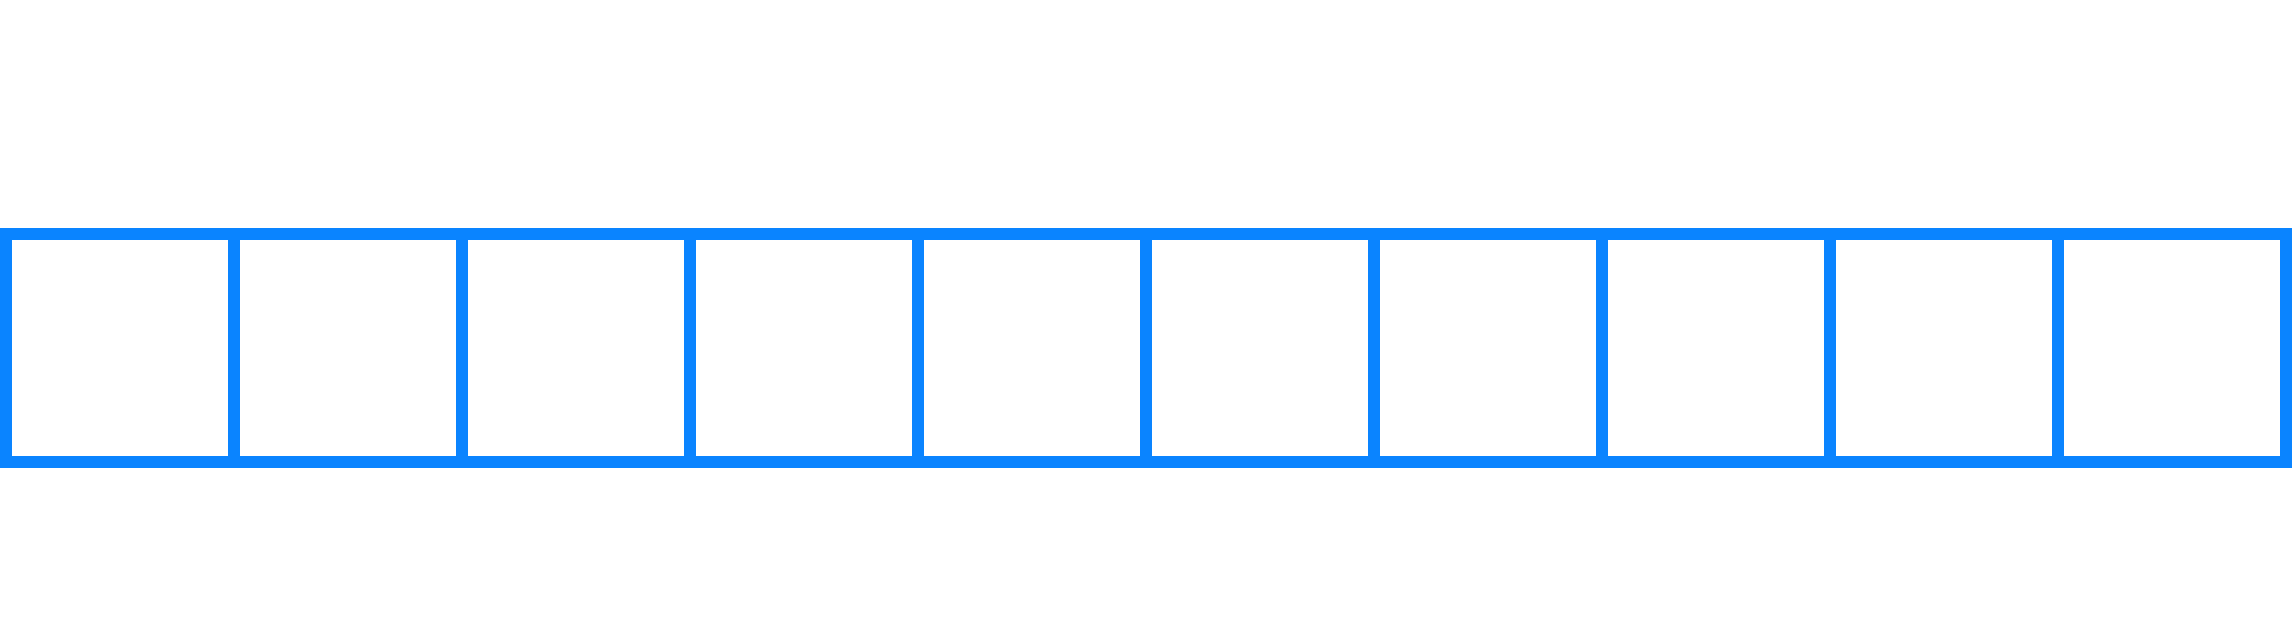
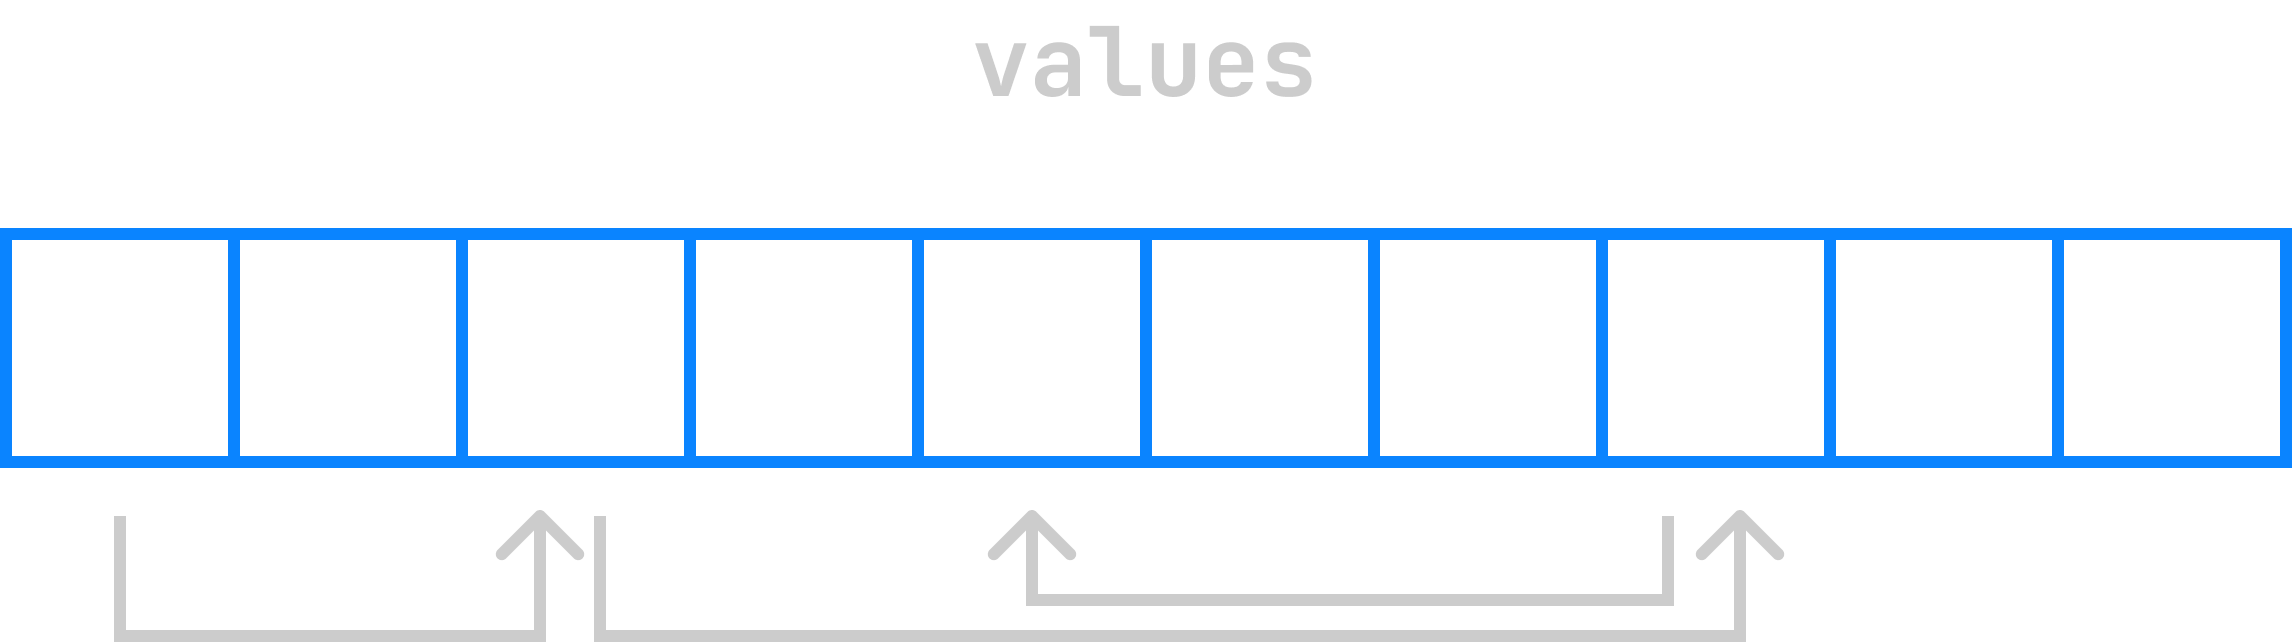
update blog posts

Changed region(s): [[0.031, 0.7788, 0.7744, 1.0], [0.4027, 0.0312, 0.5886, 0.1558]]

diff --git a/crates/www/content/blog/writing_the_fastest_gbdt_library_in_rust/post.md b/crates/www/content/blog/writing_the_fastest_gbdt_library_in_rust/post.md
@@ -1,13 +1,13 @@
 {
-"title": "Writing the fastest GBDT Library in Rust",
-"date": "December 8, 2021",
+"title": "Writing the fastest GBDT library in Rust",
+"date": "December 14, 2021",
 "author": {
 "name": "Isabella Tromba",
 "gravatar": "https://gravatar.com/avatar/b5c16153bae7a6fa6663d7f555906dd0?s=100"
 }
 }
 
-In this post, we will go over how we optimized our Gradient Boosted Decision Tree library. This is based on a talk that we gave at RustConf 2021: [Writing the Fastest Gradient Boosted Decision Tree Library in Rust](https://www.youtube.com/watch?v=D1NAREuicNs). The library that this post is based on is called [Tangram Tree](https://github.com/tangramdotdev/tangram/tree/main/crates/tree) and is available on GitHub. We tried to do a good job of commenting the code. Let us know if anything is unclear.
+In this post, we will go over how we optimized our Gradient Boosted Decision Tree library. This is based on a talk that we gave at RustConf 2021: [Writing the Fastest Gradient Boosted Decision Tree Library in Rust](https://www.youtube.com/watch?v=D1NAREuicNs). The code is available on [GitHub](https://github.com/tangramdotdev/tangram/tree/main/crates/tree).
 
 <div style="position: relative; padding-bottom: 56.25%; ">
   <iframe
@@ -20,7 +20,7 @@ In this post, we will go over how we optimized our Gradient Boosted Decision Tre
   </iframe>
 </div>
 
-The content of this post is organized into sections, feel free to skip to the ones you want to read:
+The content of this post is organized into following sections:
 
 1. [What are GBDTs](#what_are_gbdts?).
 2. [Use Rayon to Parallelize](#use_rayon_to_parallelize).
@@ -32,7 +32,7 @@ The content of this post is organized into sections, feel free to skip to the on
 
 ## What are GBDTs?
 
-GBDT stands for Gradient Boosted Decision Tree. GBDTs are a type of machine learning model that perform incredibly well on tabular data. Tabular data is data that you would normally find in a spreadsheet/csv. You can think of tabular data as ints, floats, booleans, enums, and short text.
+GBDT stands for Gradient Boosted Decision Tree. GBDTs are a type of machine learning model that perform incredibly well on tabular data. Tabular data is data that you would normally find in a spreadsheet or csv.
 
 In order to get a feeling for how GBDT's work, let's go through an example of making a prediction with a single decision tree. Let’s say you want to predict the price of a house based on features like the number of bedrooms, bathrooms, and square footage. Here is a table with 3 features `num_bedrooms`, `num_bathrooms` and `sqft`. The final column called `price` is what we are trying to predict.
 
@@ -65,9 +65,9 @@ Starting at the top, the number of bedrooms is 3 which is less than or equal to 
   width="50%"
 />
 
-A single decision tree isn’t very good at making predictions on its own, so we train a bunch of trees, one at a time, where each tree predicts the error in the sum of the outputs of the trees before it. This is called gradient boosting over decision trees! In this example, the prediction is $340K.
+A single decision tree isn’t very good at making predictions on its own, so we train a bunch of trees, one at a time, where each tree predicts the error in the sum of the outputs of the trees before it. This is called gradient boosting over decision trees!
 
-Making a prediction with gradient boosted decision trees is easy. We start with a baseline prediction which in the case of regression (predicting a continuous value like the price of a home) is just the average price of houses in our dataset. Then, we run the process we described for getting a prediction out of a single decision tree for each tree and sum up the outputs.
+Making a prediction with gradient boosted decision trees is easy. We start with a baseline prediction which in the case of regression (predicting a continuous value like the price of a home) is just the average price of houses in our dataset. Then, we run the process we described for getting a prediction out of a single decision tree for each tree and sum up the outputs. In this example, the prediction is $340K.
 
 <img
   src="gbdt.png"
@@ -79,7 +79,7 @@ To learn more about GBDT's check out the [wikipedia article on gradient boosting
 
 ## Use Rayon to Parallelize
 
-So now that we know a little about GBDT's let's talk about how we made our code fast. The first thing we did was parallelize our code. [Rayon](https://github.com/rayon-rs/rayon) makes this really easy. Rayon is a data parallelism library for Rust that makes converting sequential operations into parallel ones extremely easy.
+So now that we know a little about GBDT's, let's talk about how we made our code fast. The first thing we did was parallelize our code. [Rayon](https://github.com/rayon-rs/rayon) makes this really easy. Rayon is a data parallelism library for Rust that makes converting sequential operations into parallel ones extremely easy.
 
 <img
   src="features_matrix.png"
@@ -103,7 +103,7 @@ dataset.columns().iter().map(|column| {
 })
 ```
 
-We can parallelize this code with Rayon. All we have to do is change the call to `iter` to `par_iter`. 
+We can parallelize this code with Rayon. All we have to do is change the call to `iter` to `par_iter`.
 
 ```rust
 dataset.columns().par_iter().map(|column| {
@@ -111,7 +111,7 @@ dataset.columns().par_iter().map(|column| {
 })
 ```
 
-Rayon will keep a thread pool around and schedule items from your iterator to be processed in parallel. Parallelizing over the features works well when the number of features is larger than the number of cores on your computer. When the number of features is smaller than the number of logical cores in your computer, parallelizing over the features is not as efficient. This is because some of our cores will be sitting idle so we will not be using all of the compute power available to us. You can see this clearly in the image below. Cores 1 through 4 have work to do because they have features 1 through 4 assigned to them. Cores 5 through 8 though are sitting idle. 
+Rayon will keep a thread pool around and schedule items from your iterator to be processed in parallel. Parallelizing over the features works well when the number of features is larger than the number of cores on your computer. When the number of features is smaller than the number of logical cores in your computer, parallelizing over the features is not as efficient. This is because some of our cores will be sitting idle so we will not be using all of the compute power available to us. You can see this clearly in the image below. Cores 1 through 4 have work to do because they have features 1 through 4 assigned to them. Cores 5 through 8 though are sitting idle.
 
 <img
   src="cores_column_wise.png"
@@ -135,7 +135,7 @@ Each core now has some rows assigned to it, and no core is sitting idle.
   width="50%"
 />
 
-Distributing the work across rows is super easy with Rayon as well. We just use the combinator `par_chunks`! 
+Distributing the work across rows is super easy with Rayon as well. We just use the combinator `par_chunks`!
 
 ```rust
 dataset.rows().par_chunks(N).map(|chunk| {
@@ -146,7 +146,7 @@ These are just a couple of the combinators available in Rayon. There are a lot o
 
 ## Use cargo-flamegraph to find bottlenecks
 
-Next, we used [cargo-flamegraph](https://github.com/flamegraph-rs/flamegraph) to find where most of the time was being spent.
+Next, we used [cargo-flamegraph](https://github.com/flamegraph-rs/flamegraph) to find where most of the time was being spent. `Cargo-flamegraph` makes it easy generate flamegraphs and integrates elegantly with cargo. You can install it with `cargo install`, then run `cargo flamegraph` to run your program and generate a flamegraph.
 
 ```
 sudo apt install -y linux-perf
@@ -154,7 +154,7 @@ cargo install flamegraph
 cargo flamegraph
 ```
 
-`Cargo-flamegraph` makes it easy generate flamegraphs and integrates elegantly with cargo. You can install it with `cargo install`, then run `cargo flamegraph` to run your program and generate a flamegraph.
+Here is a simple example with a program that calls two subroutines, `foo` and `bar`.
 
 ```rust
 fn main() {
@@ -163,7 +163,7 @@ fn main() {
 }
 ```
 
-Here is a simple example with a program that calls two subroutines, `foo` and `bar`. When we run `cargo flamegraph` we get an output that looks like this. 
+When we run `cargo flamegraph` we get an output that looks like this.
 
 <img
   src="flamegraph.png"
@@ -179,11 +179,9 @@ It contains a lot of extra functions that you have to sort through, but it boils
   width="50%"
 />
 
-The y-axis of the graph is the call stack, and the x axis is duration. The bottom of the graph shows that the entire duration of the program was spent in the main function. Above that, you see that the main function’s time is broken up between calls to `foo` and `bar`, and that about two thirds of the time was spent in `foo` and its subroutines, vs about one third of the time spent in bar and its subroutines.
+The y-axis of the graph is the call stack, and the x axis is duration. The bottom of the graph shows that the entire duration of the program was spent in the main function. Above that, you see that the main function’s time is broken up between calls to `foo` and `bar`, and that about two thirds of the time was spent in `foo` and its subroutines and about one third of the time spent in bar and its subroutines.
 
-In our code for training decision trees, the flamegraph showed one function where the majority of the time was spent. It boiled down to something like this: 
-
-We maintain an array of the numbers `0` to `n` that we call `indexes`, and at each iteration of training we rearrange it. Then, we access an array of the same length, called `values`, but in the order of the indexes in the `indexes` array.
+In our code for training decision trees, the flamegraph showed one function where the majority of the time was spent. In this function, we maintain an array of the numbers `0` to `n` that we call `indexes`, and at each iteration of training we rearrange it. Then, we access an array of the same length, called `values`, but in the order of the indexes in the `indexes` array.
 
 ```rust
 let indexes = (0..n).collect();
@@ -196,11 +194,11 @@ for index in indexes {
 }
 ```
 
-This results in accessing each item in the `values` array out of order.
+This results in accessing each item in the `values` array out of order. We will refer back to this function throughout the rest of this post.
 
 ## Use cargo-asm to identify suboptimal code generation
 
-From the flamegraph, we knew which function was taking the majority of the time, so we looked at the assembly code it generated to see if there were any opportunities to make it faster. We did this with [cargo-asm](https://github.com/gnzlbg/cargo-asm).
+From the flamegraph, we knew which function was taking the majority of the time, which we briefly described above. We started by looking at the assembly code it generated to see if there were any opportunities to make it faster. We did this with [cargo-asm](https://github.com/gnzlbg/cargo-asm).
 
 ```bash
 cargo install cargo-asm
@@ -241,13 +239,13 @@ for index in indexes {
 }
 ```
 
-When we looked at the assembly for this loop...
+When we looked at the assembly for this loop, we were surprised to find an [`imul`](https://www.felixcloutier.com/x86/imul) instruction, which is an integer multiplication.
 
 ```
 imul     rax, qword, ptr, [r8, +, 16]
 ```
 
-We were surprised to find an [`imul`](https://www.felixcloutier.com/x86/imul) instruction, which is an integer multiplication. What is that doing in our code? We are just indexing into an array of f32’s. f32’s are 4 bytes each, so the compiler should be able to get the address of the ith item by multiplying i \* 4. Multiplying by four is the same as shifting i left by two. Shifting left by two is much faster than integer multiplication.
+What is that doing in our code? We are just indexing into an array of f32’s. f32’s are 4 bytes each, so the compiler should be able to get the address of the ith item by multiplying i \* 4. Multiplying by four is the same as shifting i left by two. Shifting left by two is much faster than integer multiplication.
 
 ```rust
 for index in indexes {
@@ -293,7 +291,7 @@ Remember how we noticed that this code results in accessing the `values` array o
   width="100%"
 />
 
-However, we know which values we are going to be accessing a few iterations of the loop in the future. We can hint to x86_64 CPU’s to prefetch those values into cache using the [mm_prefetch](https://doc.rust-lang.org/beta/core/arch/x86_64/fn._mm_prefetch.html) intrinsic. We experimented with different values of the `OFFSET` until we got the best performance. If the `OFFSET` is too small, the CPU will still have to wait for the data, if the `OFFSET` is too large, data that the CPU needs might be evicted and by the time the CPU gets to the iteration that needs the data, it will no longer be there. The best offset will vary depending on your computer's hardware so it can be more of an art than a science. 
+However, we know which values we are going to be accessing a few iterations of the loop in the future. We know this because the indexes are given by the `indexes` array. So 10 iterations in the future, we will be accessing `values[indexes[current_index + 10]]`. We can hint to x86_64 CPU’s to prefetch those values into cache using the [mm_prefetch](https://doc.rust-lang.org/beta/core/arch/x86_64/fn._mm_prefetch.html) intrinsic. We experimented with different values of the `OFFSET` until we got the best performance. If the `OFFSET` is too small, the CPU will still have to wait for the data, if the `OFFSET` is too large, data that the CPU needs might be evicted and by the time the CPU gets to the iteration that needs the data, it will no longer be there. The best offset will vary depending on your computer's hardware so it can be more of an art than a science.
 
 ```rust
 for index in indexes {
@@ -303,7 +301,7 @@ for index in indexes {
 }
 ```
 
-If you are interested in cache performance and writing performant code, check out [Mike Acton's talk on Data-Oriented Design](https://www.youtube.com/watch?v=rX0ItVEVjHc) Andrew Kelly, the creator of Zig, [recent talk at Handmade Seattle](https://media.handmade-seattle.com/practical-data-oriented-design/). 
+If you are interested in cache performance and writing performant code, check out [Mike Acton's talk on Data-Oriented Design](https://www.youtube.com/watch?v=rX0ItVEVjHc) and [Andrew Kelly's recent talk at Handmade Seattle](https://media.handmade-seattle.com/practical-data-oriented-design/).
 
 ## Use unsafe code to eliminate unnecessary bounds checks
 
@@ -329,7 +327,7 @@ But we said at the beginning that the indexes array is a permutation of the valu
 
 ## Use unsafe code to parallelize non-overlapping memory access
 
-Finally, we parallelized that section of code.
+Finally, we parallelized the following code:
 
 ```rust
 for index in indexes {
@@ -369,14 +367,14 @@ for index in indexes {
 }
 ```
 
-Combining the four optimizations together:
+Finally, when combining the four optimizations together:
 
-- making sure that the `values` array is a contiguous slice.
-- prefetching values so they are in cache.
-- Removing bounds checks because we know the indexes are always in bounds.
-- Parallelizing over the indexes because we know they never overlap
+1. Making sure that the `values` array is a contiguous slice.
+2. Prefetching values so they are in cache.
+3. Removing bounds checks because we know the indexes are always in bounds.
+4. Parallelizing over the indexes because we know they never overlap.
 
-This is the code we get:
+this is the code we get:
 
 ```rust
 struct ValuesPtr(*mut [f32]);
@@ -401,4 +399,3 @@ Here are our benchmarks on training time comparing Tangram's Gradient Boosted De
 To see all the benchmarks, head over to [https://tangram.dev/benchmarks](https://tangram.dev/benchmarks).
 
 If you are interested in reading the code or giving us a star, the project is available on [GitHub](https://github.com/tangramdotdev/tangram).
-

diff --git a/crates/www/content/blog/what_machine_learning_can_learn_from_ruby_on_rails/post.md b/crates/www/content/blog/what_machine_learning_can_learn_from_ruby_on_rails/post.md
@@ -1,6 +1,6 @@
 {
 "title": "What machine learning can learn from Ruby on Rails",
-"date": "December 3, 2021",
+"date": "December 15, 2021",
 "author": {
 "name": "Isabella Tromba",
 "gravatar": "https://gravatar.com/avatar/b5c16153bae7a6fa6663d7f555906dd0?s=100"
@@ -13,8 +13,6 @@
   width="50%"
 />
 
-## Convention over Configuration
-
 I wrote my first end-to-end functioning web application using Ruby on Rails in [a class at MIT (6.170)](https://stellar.mit.edu/S/course/6/sp13/6.170/index.html) in 2013. There were things that Rails automatically handled for me that I didn’t even realize were hard to do. Running `rails new` just set up a completely functioning application. I never had to consider all of the components I would need to string together. Database migrations, routing, run and deploy scripts, tests, handling static assets, and more worked out of the box and the documentation clearly described how to build every part of my application. In fact, I assumed that writing web applications should always be this easy because I had never tried to write one from scratch. I was the beginner benefiting from my own ignorance that DHH talks about in [The Rails Doctrine](https://rubyonrails.org/doctrine/)!
 
 > But beyond the productivity gains for experts, conventions also lower the barriers of entry for beginners. There are so many conventions in Rails that a beginner doesn’t even need to know about, but can just benefit from in ignorance. It’s possible to create great applications without knowing why everything is the way it is.
@@ -23,13 +21,11 @@ I wrote my first end-to-end functioning web application using Ruby on Rails in [
 
 > \- DHH, The Rails Doctrine
 
-Fast forward a couple of years, I ended up becoming a machine learning engineer at Slack. Unfortunately, getting machine learning into production felt a lot more like "the framework as a thick textbook" and my application as "a blank piece of paper".
+Fast forward a couple of years, I ended up becoming a machine learning engineer at Slack. Unfortunately, getting machine learning into production felt a lot more like "the framework as a thick textbook" and my application as "a blank piece of paper" that DHH talks about in the Rails Doctrine.
 
 To make things even worse, try googling “how to learn machine learning”. The steps involved start looking like the curriculum required to obtain a PhD in Statistics, Math, and Computer Science.
 
-The problems don’t end once you have successfully trained a model. You still have to figure out how to get your model into production. The code you wrote in your jupyter notebook needs to be translated into code that can be deployed. An entirely new job called “Machine Learning Engineer” was created just to solve this problem. Machine learning engineers write code to transform raw data into features, choose a serialization format to save the model that was trained by the data scientists, set up servers to host those models, configure production monitoring to look for data quality and drift issues, set up automated data alerting and add A/B testing frameworks to test new models.
-
-## Value integrated systems
+The problems don’t end once you have successfully trained a model. You still have to figure out how to get your model into production. The code you wrote in your jupyter notebook needs to be translated into code that can be deployed. An entirely new job called “Machine Learning Engineer” was created just to solve this problem.
 
 In the Rails Doctrine, there is a section on “Value Integrated Systems”. DHH says that Rails is “A whole system that addresses an entire problem.”
 
@@ -39,9 +35,9 @@ In the Rails Doctrine, there is a section on “Value Integrated Systems”. DHH
 >
 > \- DHH, The Rails Doctrine
 
-Today, companies that want to get machine learning deployed in to production have to assemble a team of specialists including Data Scientists, Machine Learning Engineers, Backend Engineers and Ops teams.
+This line from the Rails Doctrine is so important, I'll requote it again "Its[Rails'] purpose is not to segregate specialists into small niches and then require whole teams of such in order to build anything of enduring value". This sounds a lot like what getting a machine learning model into production is like today where companies have to assemble a team of specialists including Data Scientists, Machine Learning Engineers, Backend Engineers and Ops teams.
 
-It would be great if we had something like Ruby on Rails for machine learning: a single system that provides the tools you need to go from data to a deployed machine learning model.
+It would be great if we had something like Ruby on Rails for machine learning: a single system that provides the tools you need to go from data to a deployed machine learning model.  Just as DHH says "rails specifically seeks to equip generalist individuals to make these full system", we need tools to equip generalist programmers (frontend, backend, mobile, ...) to build full machine learning systems.
 
 ## Introducing Tangram
 
@@ -50,5 +46,7 @@ Tangram is an all-in-one automated machine learning framework that makes it easy
 - Run `tangram train` to train a model from a CSV file on the command line.
 - Make predictions with bindings for [Ruby](https://rubygems.org/gems/tangram), [Python](https://pypi.org/project/tangram), [Golang](https://pkg.go.dev/github.com/tangramdotdev/tangram-go), [Elixir](https://hex.pm/packages/tangram), [Javascript](https://www.npmjs.com/package/@tangramdotdev/tangram), [PHP](https://packagist.org/packages/tangram/tangram), or [Rust](https://lib.rs/tangram).
 - Run `tangram app` to start a web application where you can learn more about your models and monitor them in production.
+
+You can check out the [Tangram Ruby Gem](https://rubygems.org/gems/tangram). We built it using Ruby FFI and the source is available on our [GitHub repo](https://github.com/tangramdotdev/tangram/tree/main/languages/ruby).
 
 Tangram is a new project and there is a lot of work ahead. We’d love to get your feedback. Check out the project on [GitHub](https://github.com/tangramdotdev/tangram), and let us know what you think! If you like what we are working on, [give us a star](https://github.com/tangramdotdev/tangram)!
